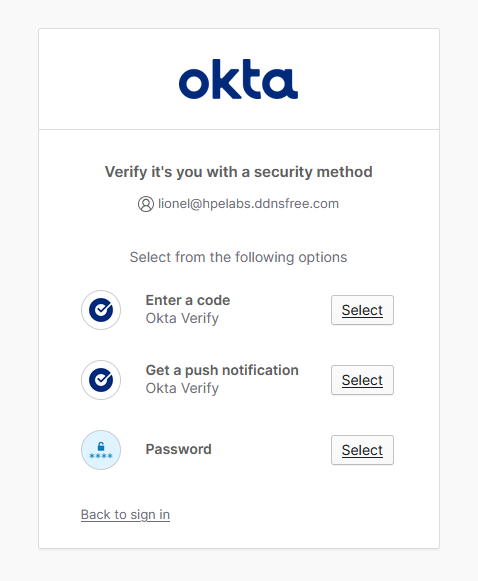
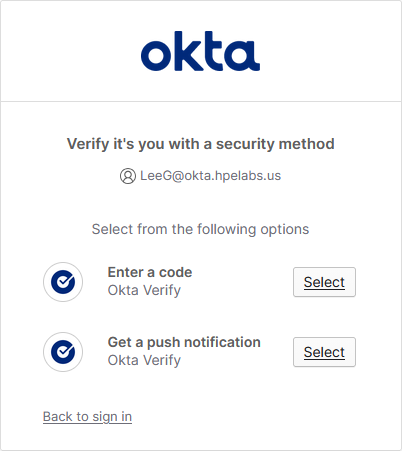
Update SAML-SSO

diff --git a/_posts/2025-11-07-Configuring-SAML-SSO-with-HPE-GreenLake-and-Passwordless-Authentication-for-HPECOMCmdlets.md b/_posts/2025-11-07-Configuring-SAML-SSO-with-HPE-GreenLake-and-Passwordless-Authentication-for-HPECOMCmdlets.md
@@ -1155,7 +1155,7 @@ When you need to grant HPE GreenLake access to a new user, follow this process:
 
 #### 3. Test SSO Authentication with Browser
 
-To verify that your passwordless authentication configuration is working correctly, test the complete authentication flow using a web browser:
+To verify that your passwordless authentication configuration is working correctly with the HPE GreenLake application, test the complete authentication flow using a web browser:
 
 1. Open a web browser and navigate to [https://common.cloud.hpe.com/newlogin](https://common.cloud.hpe.com/newlogin)
 
@@ -1681,9 +1681,11 @@ The following sections demonstrate how to configure Okta Verify with push notifi
 
        [![]( {{ site.baseurl }}/assets/images/SAML-SSO/SAML-SSO-65.png)]( {{ site.baseurl }}/assets/images/SAML-SSO/SAML-SSO-65.png){: data-lightbox="gallery"}{: .bordered-image-thin}
 
-    5. Under **User must authenticate with**, select **Any 2 factor types**
+    5. Under **User must authenticate with**, select **Any 1 factor type**
 
        [![]( {{ site.baseurl }}/assets/images/SAML-SSO/SAML-SSO-66.png)]( {{ site.baseurl }}/assets/images/SAML-SSO/SAML-SSO-66.png){: data-lightbox="gallery"}{: .bordered-image-thin}
+
+        > **Important**: Select **Any 1 factor type** (not "Any 2 factor types"). Requiring 2 factors forces Okta to use a password as the first factor during SP-Initiated SSO (when users start from the HPE GreenLake login page), because no active Okta session exists yet. With 1 factor type, a single Okta Verify push notification is sufficient for both SP-Initiated and IdP-Initiated flows — no password prompt.
 
     6. In the **Possession factor constraints** section:
        - Check **Require user interaction**
@@ -1730,7 +1732,31 @@ The following sections demonstrate how to configure Okta Verify with push notifi
 
     4. Click **Save** to apply the policy to your HPE GreenLake application.
 
-This completes the passwordless authentication configuration for Okta. Users in the HPE GreenLake group will now be required to authenticate using Okta Verify with push notification when accessing the HPE GreenLake application.
+- **Configure the Global Session Policy**
+
+    The Global Session Policy controls how Okta establishes the initial user session and is evaluated **before** your app authentication policy. If it requires a password to establish the session, Okta will prompt for a password regardless of what your app policy says — breaking SP-Initiated passwordless SSO.
+
+    You must update the Global Session Policy rule that applies to your HPE GreenLake users to allow the session to be established using the authentication method defined by the app policy (i.e., the push notification).
+
+    1. In the Admin Console, go to **Security** → **Global Session Policy**.
+
+    2. Locate the policy that applies to your HPE GreenLake users (e.g., `Enforce MFA for HPE GreenLake users`). If no dedicated policy exists, edit the **Default Policy**.
+
+    3. Click the **pencil/edit icon** on the applicable rule (e.g., `Require Okta Verify`).
+
+        [![]( {{ site.baseurl }}/assets/images/SAML-SSO/SAML-SSO-74a.png)]( {{ site.baseurl }}/assets/images/SAML-SSO/SAML-SSO-74a.png){:class="img-900"}{: data-lightbox="gallery"}{: .bordered-image-thin}
+
+    4. In the **Establish the session with** field, change the value from **A password** to **Any factor used to meet the Authentication Policy requirements**
+
+        [![]( {{ site.baseurl }}/assets/images/SAML-SSO/SAML-SSO-74b.png)]( {{ site.baseurl }}/assets/images/SAML-SSO/SAML-SSO-74b.png){:class="img-900"}{: data-lightbox="gallery"}{: .bordered-image-thin}
+
+    5. Click **Save**.
+
+    > **Why this is required**: With the default setting, Okta requires a password to bootstrap the global session when no active session exists — which is always the case for SP-Initiated SSO (user starts at the HPE GreenLake login page). Changing this setting tells Okta that a push notification satisfying the app authentication policy is sufficient to establish the session, removing the password prompt entirely for SP-Initiated flows.
+
+    > **SP-Initiated vs IdP-Initiated behavior**: Without this change, IdP-Initiated SSO (clicking the app tile in the Okta Dashboard) appears to work without a password because an Okta session already exists from the Dashboard login. SP-Initiated SSO always starts with no session, exposing the Global Session Policy requirement.
+
+This completes the passwordless authentication configuration for Okta. Users in the HPE GreenLake group will now be required to authenticate using Okta Verify with push notification when accessing the HPE GreenLake application — both from the Okta Dashboard (IdP-Initiated) and directly from the HPE GreenLake login page (SP-Initiated).
   
 [⬆ Back to Top](#)
 
@@ -1760,24 +1786,26 @@ This completes the passwordless authentication configuration for Okta. Users in 
 >
 > **Important**: If you need users to enroll when accessing HPE GreenLake directly (SP-Initiated), you must modify the authentication policy to allow password authentication as a fallback method, which contradicts the pure passwordless design. For pure passwordless deployments, initial enrollment via the Okta Dashboard is required.
 
-To verify that your passwordless authentication configuration is working correctly, test the complete authentication flow using a web browser:
+To verify that your passwordless authentication configuration is working correctly with the HPE GreenLake application, test the complete authentication flow using a web browser:
 
-1. Open a web browser and navigate to your Okta End-User Dashboard at your organization's Okta URL (typically `https://<your-domain>.okta.com/app/UserHome`)
+1. Open a web browser and navigate to your Okta End-User Dashboard at your organization's Okta URL (typically `https://<your-domain>.okta.com/app/UserHome`) and click on the `HPE GreenLake` application
+
+    [![]( {{ site.baseurl }}/assets/images/SAML-SSO/SAML-SSO-72aa.png)]( {{ site.baseurl }}/assets/images/SAML-SSO/SAML-SSO-72aa.png){:class="img-800"}{: data-lightbox="gallery"}{: .bordered-image-thin}
 
 2. **Expected Authentication Flow:**
 
-    - **Initial Login Screen**: The Okta sign-in screen appears. Enter your email address and note that no password field is displayed, confirming that the passwordless policy is active.
+    - **Initial Login Screen**: The Okta sign-in screen appears. Enter your password:
     
-        [![]( {{ site.baseurl }}/assets/images/SAML-SSO/SAML-SSO-72a.png)]( {{ site.baseurl }}/assets/images/SAML-SSO/SAML-SSO-72a.png){:class="img-400"}{: data-lightbox="gallery"}{: .bordered-image-thin}
+        [![]( {{ site.baseurl }}/assets/images/SAML-SSO/SAML-SSO-72a.png)]( {{ site.baseurl }}/assets/images/SAML-SSO/SAML-SSO-72a.png){:class="img-300"}{: data-lightbox="gallery"}{: .bordered-image-thin}
 
     - **First-Time Okta Verify Setup** (if applicable):
         - A "Set up security methods" screen appears displaying a **Set up** button
        
-          [![]( {{ site.baseurl }}/assets/images/SAML-SSO/SAML-SSO-75a.png)]( {{ site.baseurl }}/assets/images/SAML-SSO/SAML-SSO-75a.png){:class="img-400"}{: data-lightbox="gallery"}{: .bordered-image-thin}
+          [![]( {{ site.baseurl }}/assets/images/SAML-SSO/SAML-SSO-75a.png)]( {{ site.baseurl }}/assets/images/SAML-SSO/SAML-SSO-75a.png){:class="img-300"}{: data-lightbox="gallery"}{: .bordered-image-thin}
 
         - Click **Set up** to display a QR code for device pairing   
 
-          [![]( {{ site.baseurl }}/assets/images/SAML-SSO/SAML-SSO-75b.png)]( {{ site.baseurl }}/assets/images/SAML-SSO/SAML-SSO-75b.png){:class="img-400"}{: data-lightbox="gallery"}{: .bordered-image-thin}
+          [![]( {{ site.baseurl }}/assets/images/SAML-SSO/SAML-SSO-75b.png)]( {{ site.baseurl }}/assets/images/SAML-SSO/SAML-SSO-75b.png){:class="img-300"}{: data-lightbox="gallery"}{: .bordered-image-thin}
 
         - Open the Okta Verify app on your mobile device
         - Tap the **+** icon to add an account
